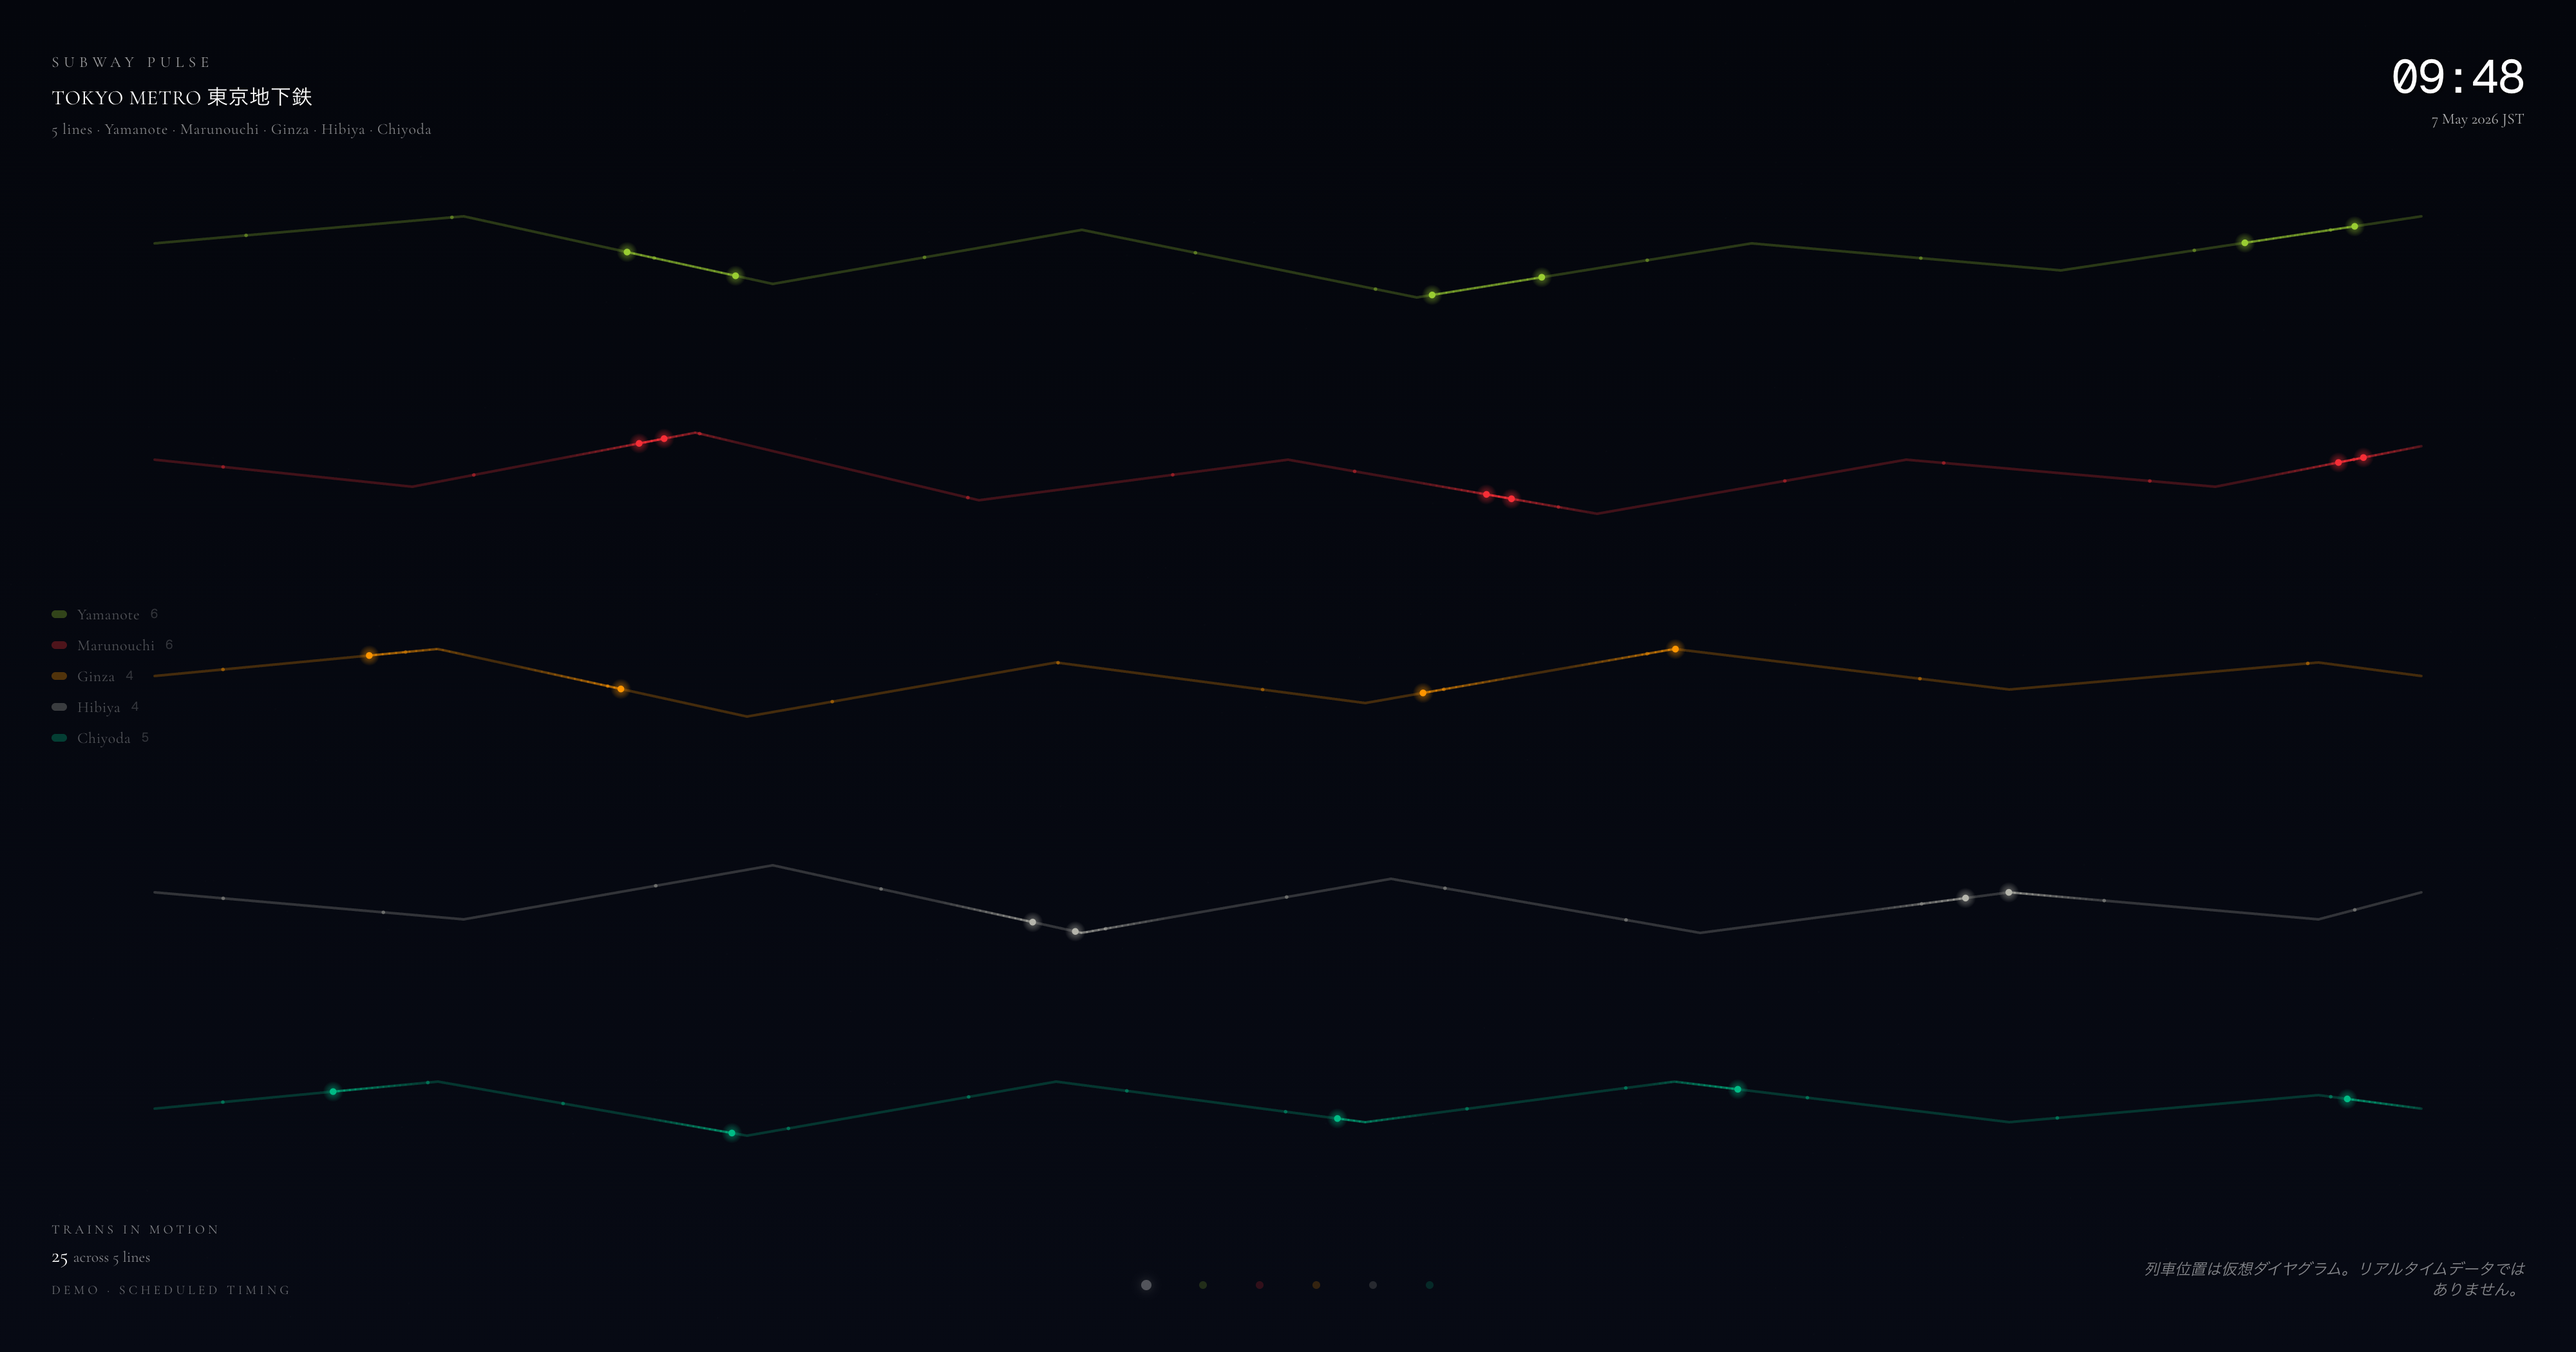
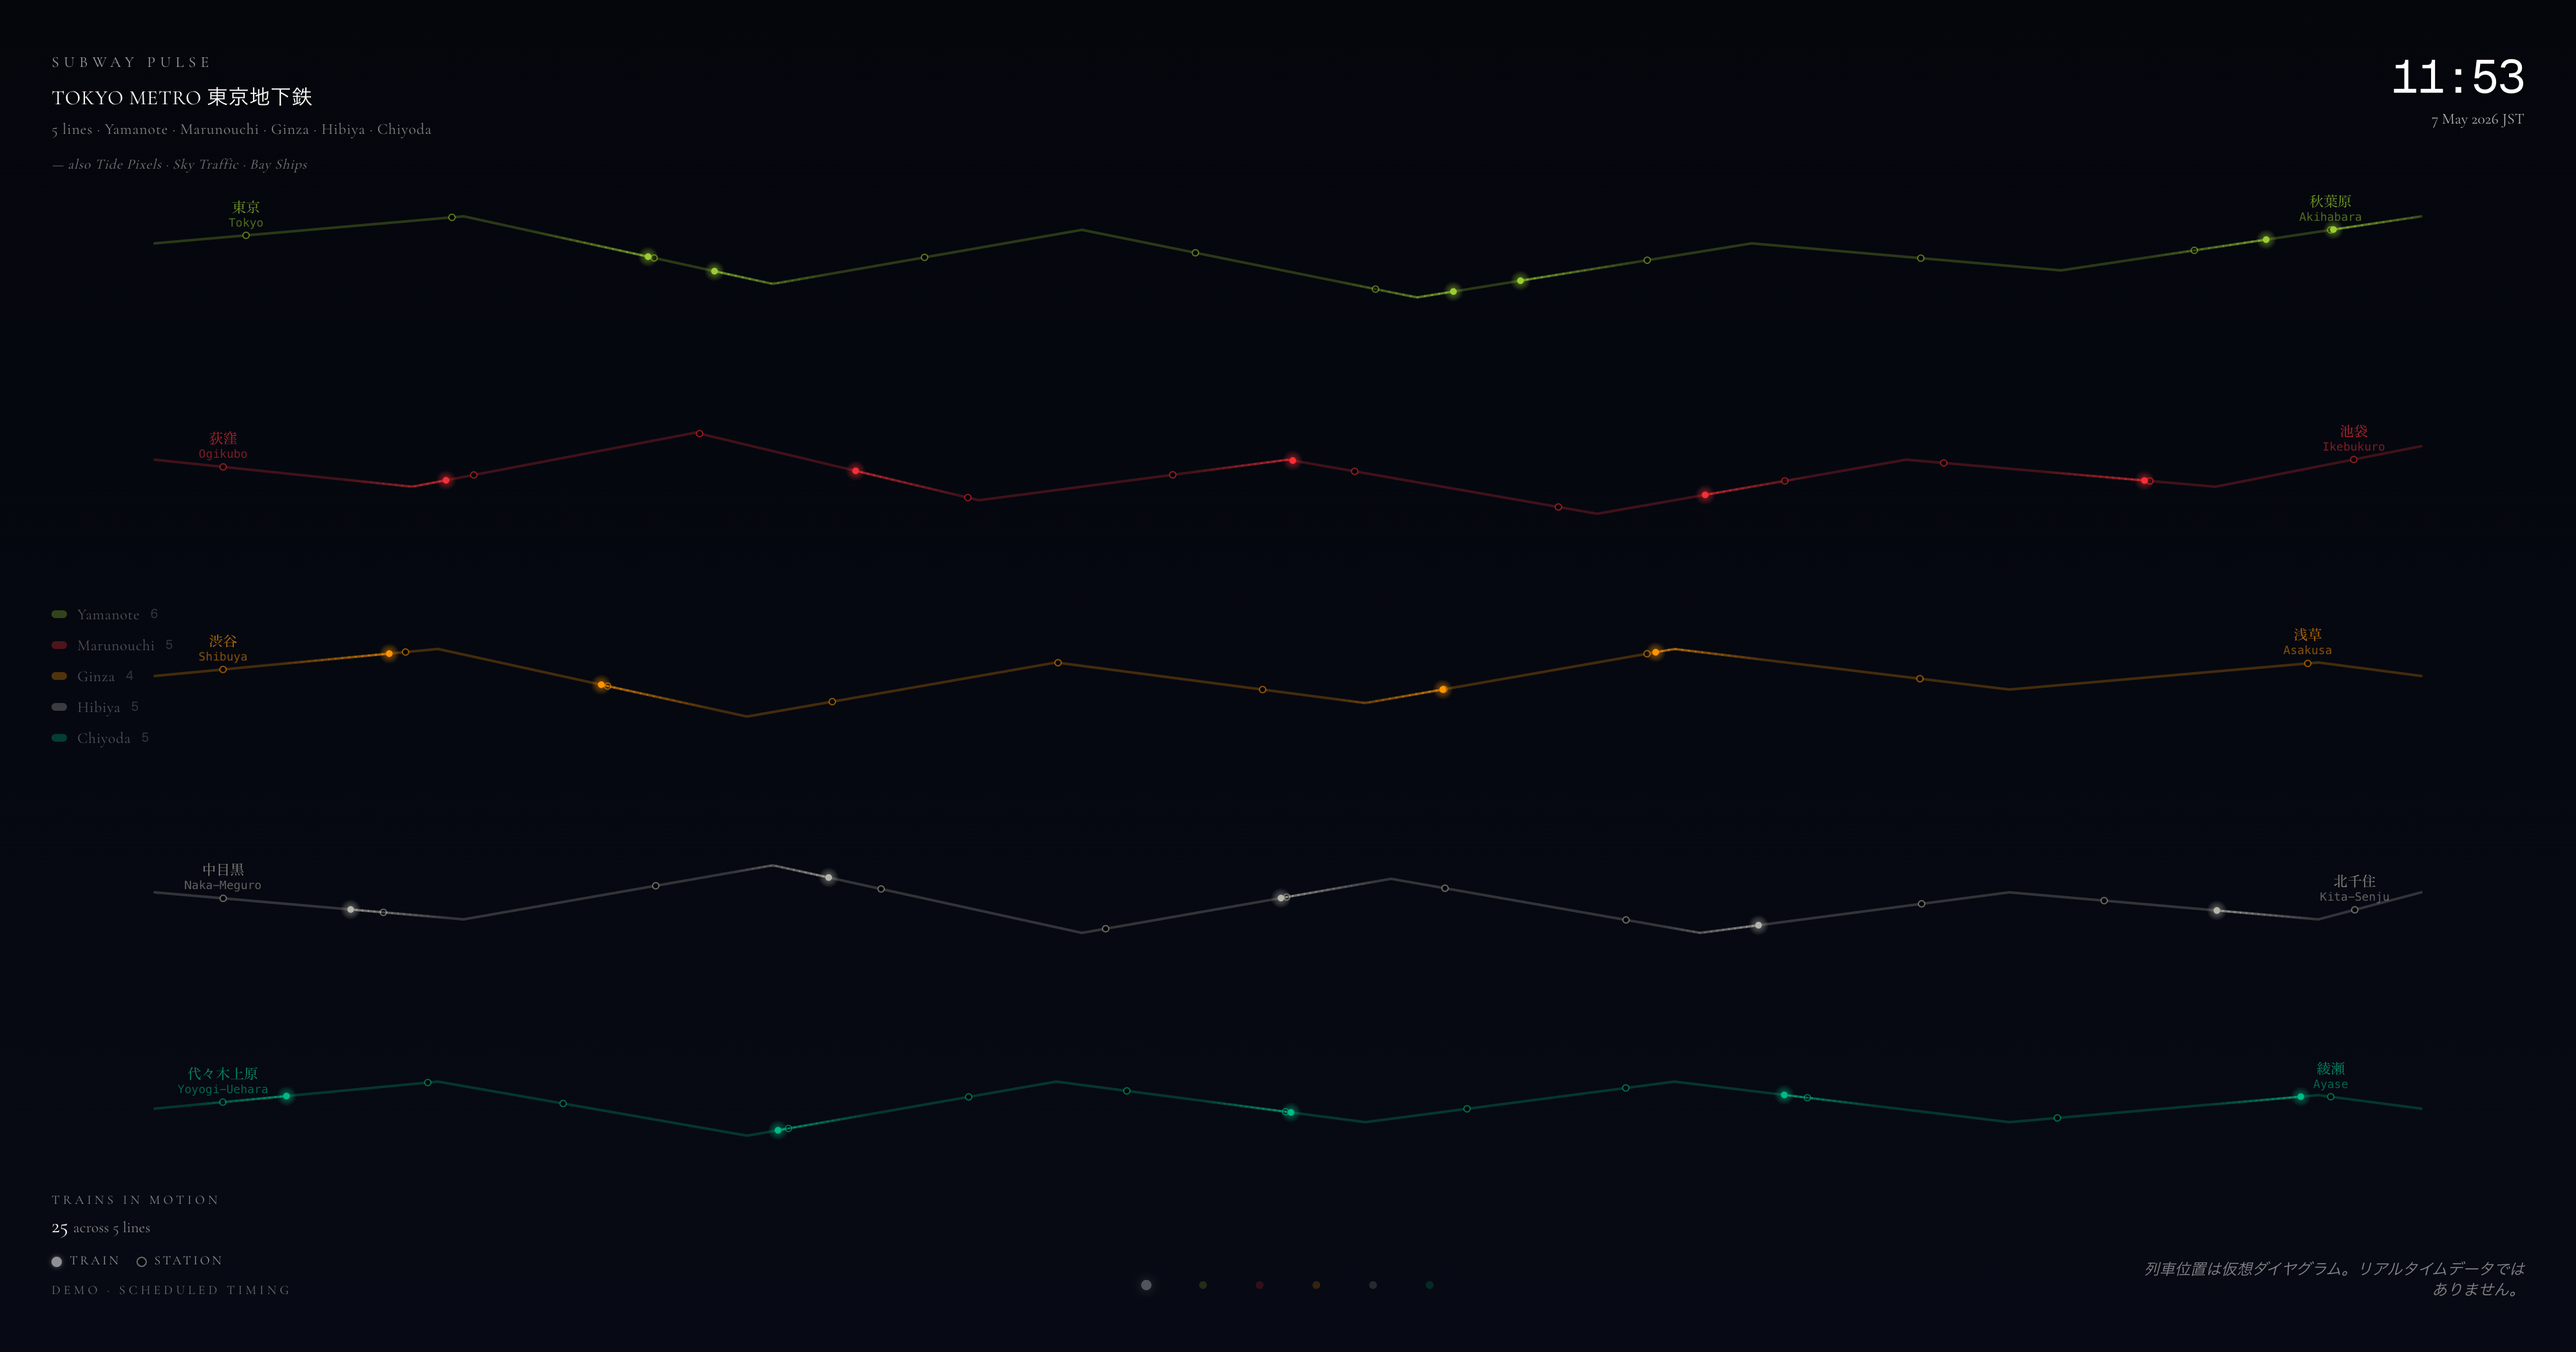
docs: swap marunouchi preview → chiyoda for stronger color contrast in 3-up
Yellow-green (Yamanote) + red (default 'all lines' shows it) + teal-green
(Chiyoda) gives the README hero stronger visual variety than the previous
yamanote-vs-marunouchi pair.

diff --git a/README.md b/README.md
@@ -5,10 +5,10 @@ Tokyo's subway lines, drawn as five colored arcs across a black canvas, with tra
 <p align="center">
   <img src="docs/preview/all-lines.png"   width="32%" alt="All 5 lines — Tokyo Metro" />
   <img src="docs/preview/yamanote.png"    width="32%" alt="Yamanote line focus" />
-  <img src="docs/preview/marunouchi.png"  width="32%" alt="Marunouchi line focus" />
+  <img src="docs/preview/chiyoda.png"     width="32%" alt="Chiyoda line focus" />
 </p>
 
-<p align="center"><em>Five lines together (Yamanote · Marunouchi · Ginza · Hibiya · Chiyoda) · Yamanote focus mode · Marunouchi focus mode. Each dot is a train moving along its line; the trail behind it is its path over the last ~30 seconds.</em></p>
+<p align="center"><em>All five lines together · Yamanote (yellow-green) ring focus · Chiyoda (teal-green) line focus. Each dot is a train; the trail behind it is its path over the last ~30 seconds.</em></p>
 
 **Live**: [subway-pulse-2026-05-07.vercel.app](https://subway-pulse-2026-05-07.vercel.app)
 
